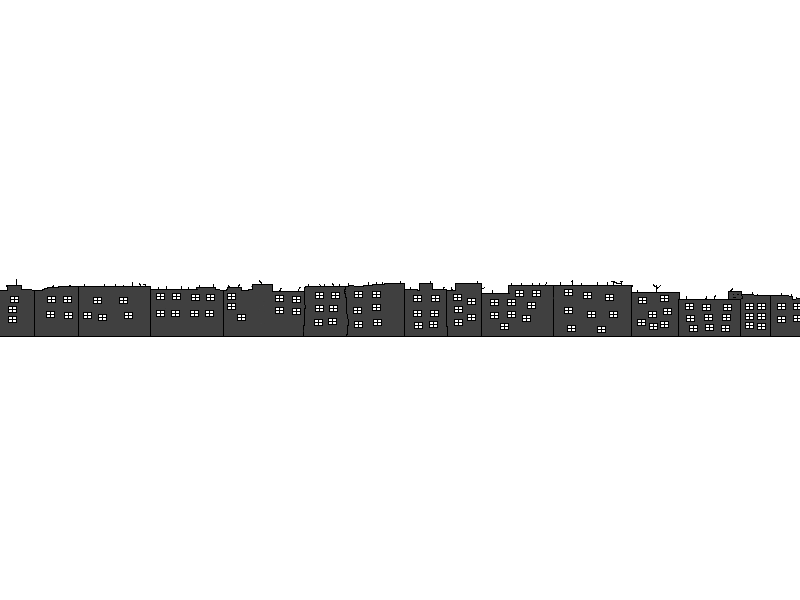
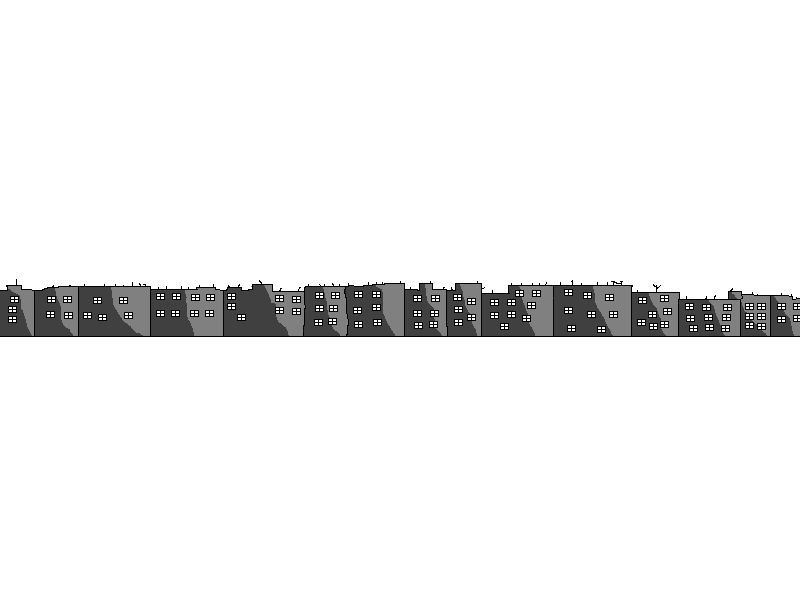
sain textuurit valmiiksi ja cähäsen lisää hion

diff --git a/Falppy derp Saku/Tasohyppelypeli1/Tasohyppelypeli1/Tasohyppelypeli1.cs b/Falppy derp Saku/Tasohyppelypeli1/Tasohyppelypeli1/Tasohyppelypeli1.cs
@@ -16,20 +16,22 @@ public class Tasohyppelypeli1 : PhysicsGame
     Image putkenkuva = LoadImage("putki");
     Image putkenpaakuva = LoadImage("putkenpaa"); 
     SoundEffect aani = LoadSoundEffect("aani");
-    IntMeter PisteLaskuri;
+    IntMeter PisteLaskuri; 
+    
   
     public override void Begin()
     {
 
 
-
+         
         LuoPistelaskuri();
         Gravity = new Vector(0.0, -200.0);
-        LisaaNappaimet();
+        LisaaNappaimet(); 
+        
         LuoKenttaHa();
         LuoLintu();
         
-        liikkuvatausta();
+        liikkuvatausta(); 
 
         maa = Level.CreateBottomBorder();
         LuoPutket();
@@ -140,6 +142,7 @@ public class Tasohyppelypeli1 : PhysicsGame
     {
         Image bgImg = LoadImage("kenttatausta v1");
         GameObject liikkuvaTausta = new GameObject(bgImg.Width * 10, bgImg.Height);
+        Level.BackgroundColor = Color.Aqua;
 
         liikkuvaTausta.Image = bgImg;
 
@@ -150,13 +153,14 @@ public class Tasohyppelypeli1 : PhysicsGame
         Add(liikkuvaTausta, -3);
 
         liikkuvaTausta.MoveTo(new Vector(-Screen.Width, 0), 100);
+       
 
     }
 
 
     void lintuhyppaaa()
     {
-        Lintu.Hit(new Vector(30, 500));
+        Lintu.Hit(new Vector(0, 250));
 
 
 
